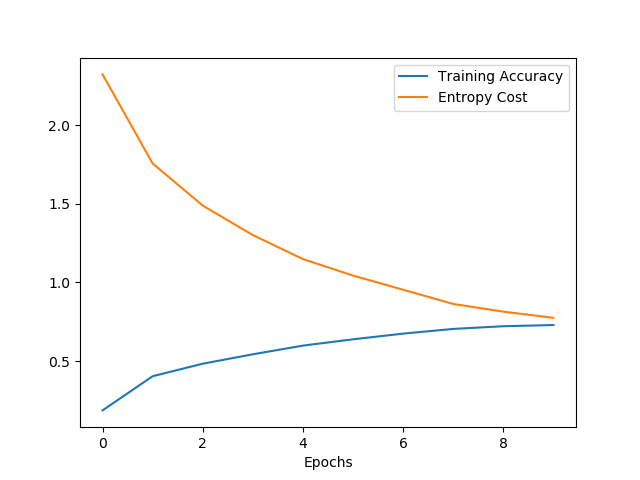
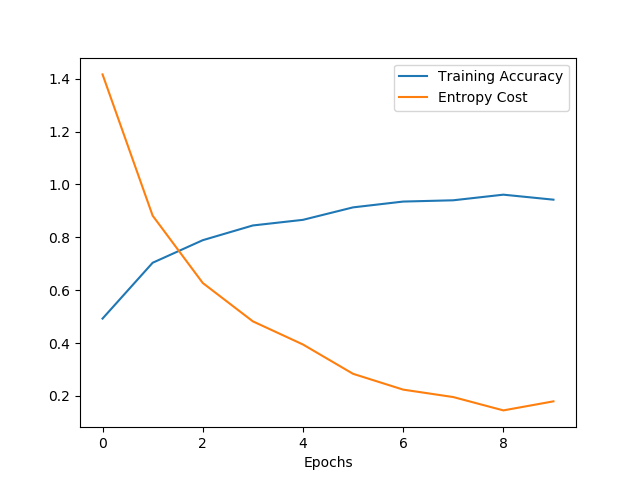
Not sure if 2 is correct, just copied over initial

diff --git a/2/B/App/2.py b/2/B/App/2.py
@@ -1,0 +1,157 @@
+import numpy as np
+import pandas
+import tensorflow as tf
+import csv
+import matplotlib.pylab as plt
+
+MAX_DOCUMENT_LENGTH = 100
+N_FILTERS = 10
+FILTER_SHAPE = [[20, 20],[20,1]] # original window size
+POOLING_WINDOW = 4
+POOLING_STRIDE = 2
+MAX_LABEL = 15
+batch_size = 128
+epochs = 10
+learning_rate= 0.01
+
+tf.logging.set_verbosity(tf.logging.ERROR)
+seed = 10
+tf.set_random_seed(seed)
+
+def char_cnn_model(x):
+  
+  input_layer = tf.reshape(
+      tf.one_hot(x, 20), [-1, MAX_DOCUMENT_LENGTH, 20, 1])  
+
+  # CNN layer 1
+  conv_1 = tf.layers.conv2d(
+      input_layer,
+      filters=N_FILTERS,
+      kernel_size=FILTER_SHAPE[0],
+      padding='VALID',
+      activation=tf.nn.relu)
+  # Pooling layer 1
+  pool_1 = tf.layers.max_pooling2d(
+      conv_1,
+      pool_size=POOLING_WINDOW,
+      strides=POOLING_STRIDE,
+      padding='SAME')
+
+  # CNN layer 2
+  conv_2 = tf.layers.conv2d(
+      pool_1,
+      filters=N_FILTERS,
+      kernel_size=FILTER_SHAPE[1],
+      padding='VALID',
+      activation=tf.nn.relu)
+  # Pooling layer 1
+  pool_2 = tf.layers.max_pooling2d(
+      conv_2,
+      pool_size=POOLING_WINDOW,
+      strides=POOLING_STRIDE,
+      padding='SAME')
+  dim_sum_2 = pool_2.get_shape()[1].value * pool_2.get_shape()[2].value * pool_2.get_shape()[3].value
+  pool_2_flat = tf.reshape(pool_2, [-1, dim_sum_2])
+  #pool2 = tf.squeeze(tf.reduce_max(pool2, 1), squeeze_dims=[1])
+
+  # Softmax Layer
+  W_softmax = tf.Variable(tf.truncated_normal([dim_sum_2, 15], stddev=1.0/np.sqrt(dim_sum_2)), name='weights_softmax')
+  b_softmax = tf.Variable(tf.zeros([15]), name='biases_3')
+  logits = tf.matmul(pool_2_flat, W_softmax) + b_softmax
+
+
+  return input_layer, logits
+
+
+def data_read_words():
+  
+  x_train, y_train, x_test, y_test = [], [], [], []
+  
+  with open('../Data/train_medium.csv', encoding='utf-8') as filex:
+    reader = csv.reader(filex)
+    for row in reader:
+      x_train.append(row[2])
+      y_train.append(int(row[0]))
+
+  with open("../Data/test_medium.csv", encoding='utf-8') as filex:
+    reader = csv.reader(filex)
+    for row in reader:
+      x_test.append(row[2])
+      y_test.append(int(row[0]))
+  
+  x_train = pandas.Series(x_train)
+  y_train = pandas.Series(y_train)
+  x_test = pandas.Series(x_test)
+  y_test = pandas.Series(y_test)
+  y_train = y_train.values
+  y_test = y_test.values
+  
+  vocab_processor = tf.contrib.learn.preprocessing.VocabularyProcessor(
+      MAX_DOCUMENT_LENGTH)
+
+  x_transform_train = vocab_processor.fit_transform(x_train)
+  x_transform_test = vocab_processor.transform(x_test)
+
+  x_train = np.array(list(x_transform_train))
+  x_test = np.array(list(x_transform_test))
+
+  no_words = len(vocab_processor.vocabulary_)
+  print('Total words: %d' % no_words)
+
+  return x_train, y_train, x_test, y_test, no_words
+
+
+  
+def main():
+  
+  trainX, trainY, testX, testY, no_words= data_read_words()
+
+  print(len(trainX))
+  print(len(testX))
+
+  # Create the model
+  x = tf.placeholder(tf.int64, [None, MAX_DOCUMENT_LENGTH])
+  y_ = tf.placeholder(tf.int64)
+
+  inputs, logits = char_cnn_model(x)
+
+  # Optimizer
+  entropy = tf.reduce_mean(tf.nn.softmax_cross_entropy_with_logits_v2(labels=tf.one_hot(y_, MAX_LABEL), logits=logits))
+  train_op = tf.train.AdamOptimizer(learning_rate).minimize(entropy)
+
+  correct_prediction = tf.cast(tf.equal(tf.argmax(logits, 1), y_), tf.float32)
+  accuracy = tf.reduce_mean(correct_prediction)
+
+  sess = tf.Session()
+  sess.run(tf.global_variables_initializer())
+
+  # training
+  train_accuracy,entropy_cost = [],[]
+  with tf.Session() as sess:
+        sess.run(tf.global_variables_initializer())
+
+        for e in range(epochs):
+            N = len(trainX)
+            idx = np.arange(N)
+            np.random.shuffle(idx)
+            trainX, trainY = trainX[idx], trainY[idx] #shuffle
+            # Mini-batch training
+            for start, end in zip(range(0, len(trainX), batch_size), range(batch_size, len(trainX), batch_size)):
+                sess.run(train_op, {x: trainX[start:end], y_: trainY[start:end]})
+                
+            acc_,loss_ = sess.run([accuracy, entropy], {x: trainX, y_: trainY})
+            train_accuracy.append(acc_)
+            entropy_cost.append(loss_)
+            print('epoch', e, 'entropy', loss_,'accuracy', acc_)
+
+        plt.figure()
+        plt.plot(range(epochs),train_accuracy,label="Training Accuracy")
+        plt.plot(range(epochs),entropy_cost,label="Entropy Cost")
+        plt.xlabel("Epochs")
+        plt.legend()
+        plt.savefig("../Out/B2.png")
+
+  sess.close()
+
+if __name__ == '__main__':
+  main()
